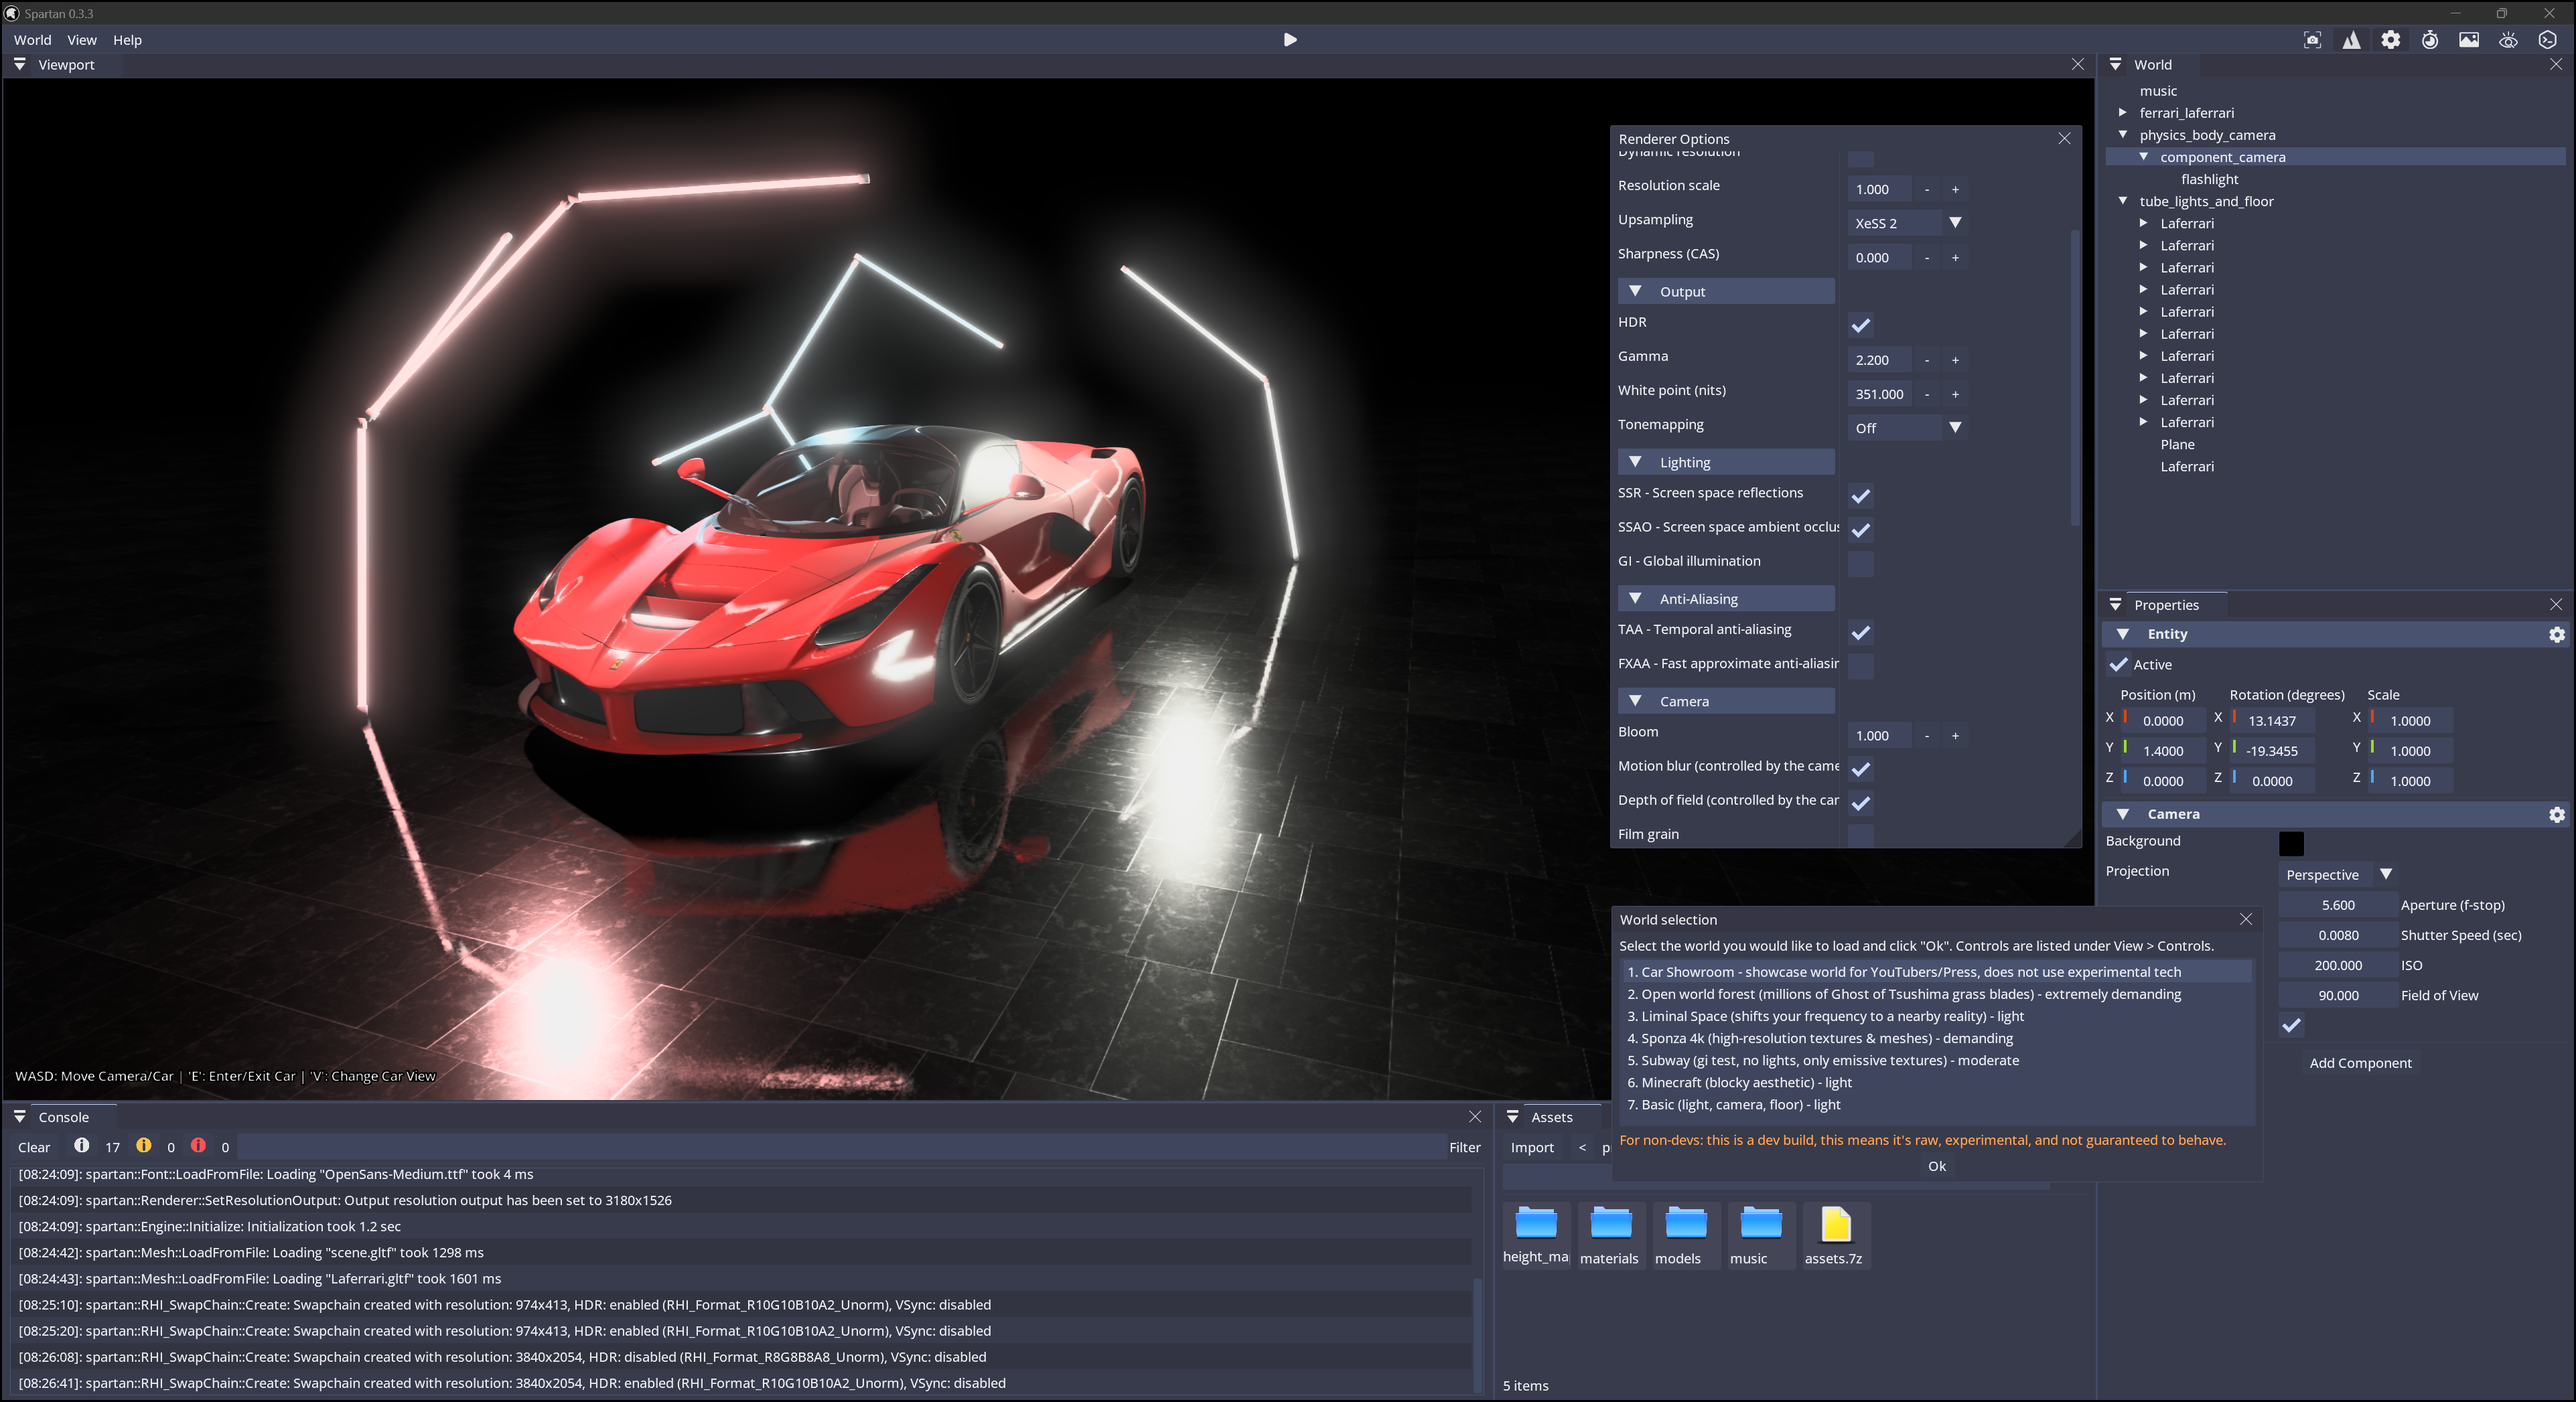
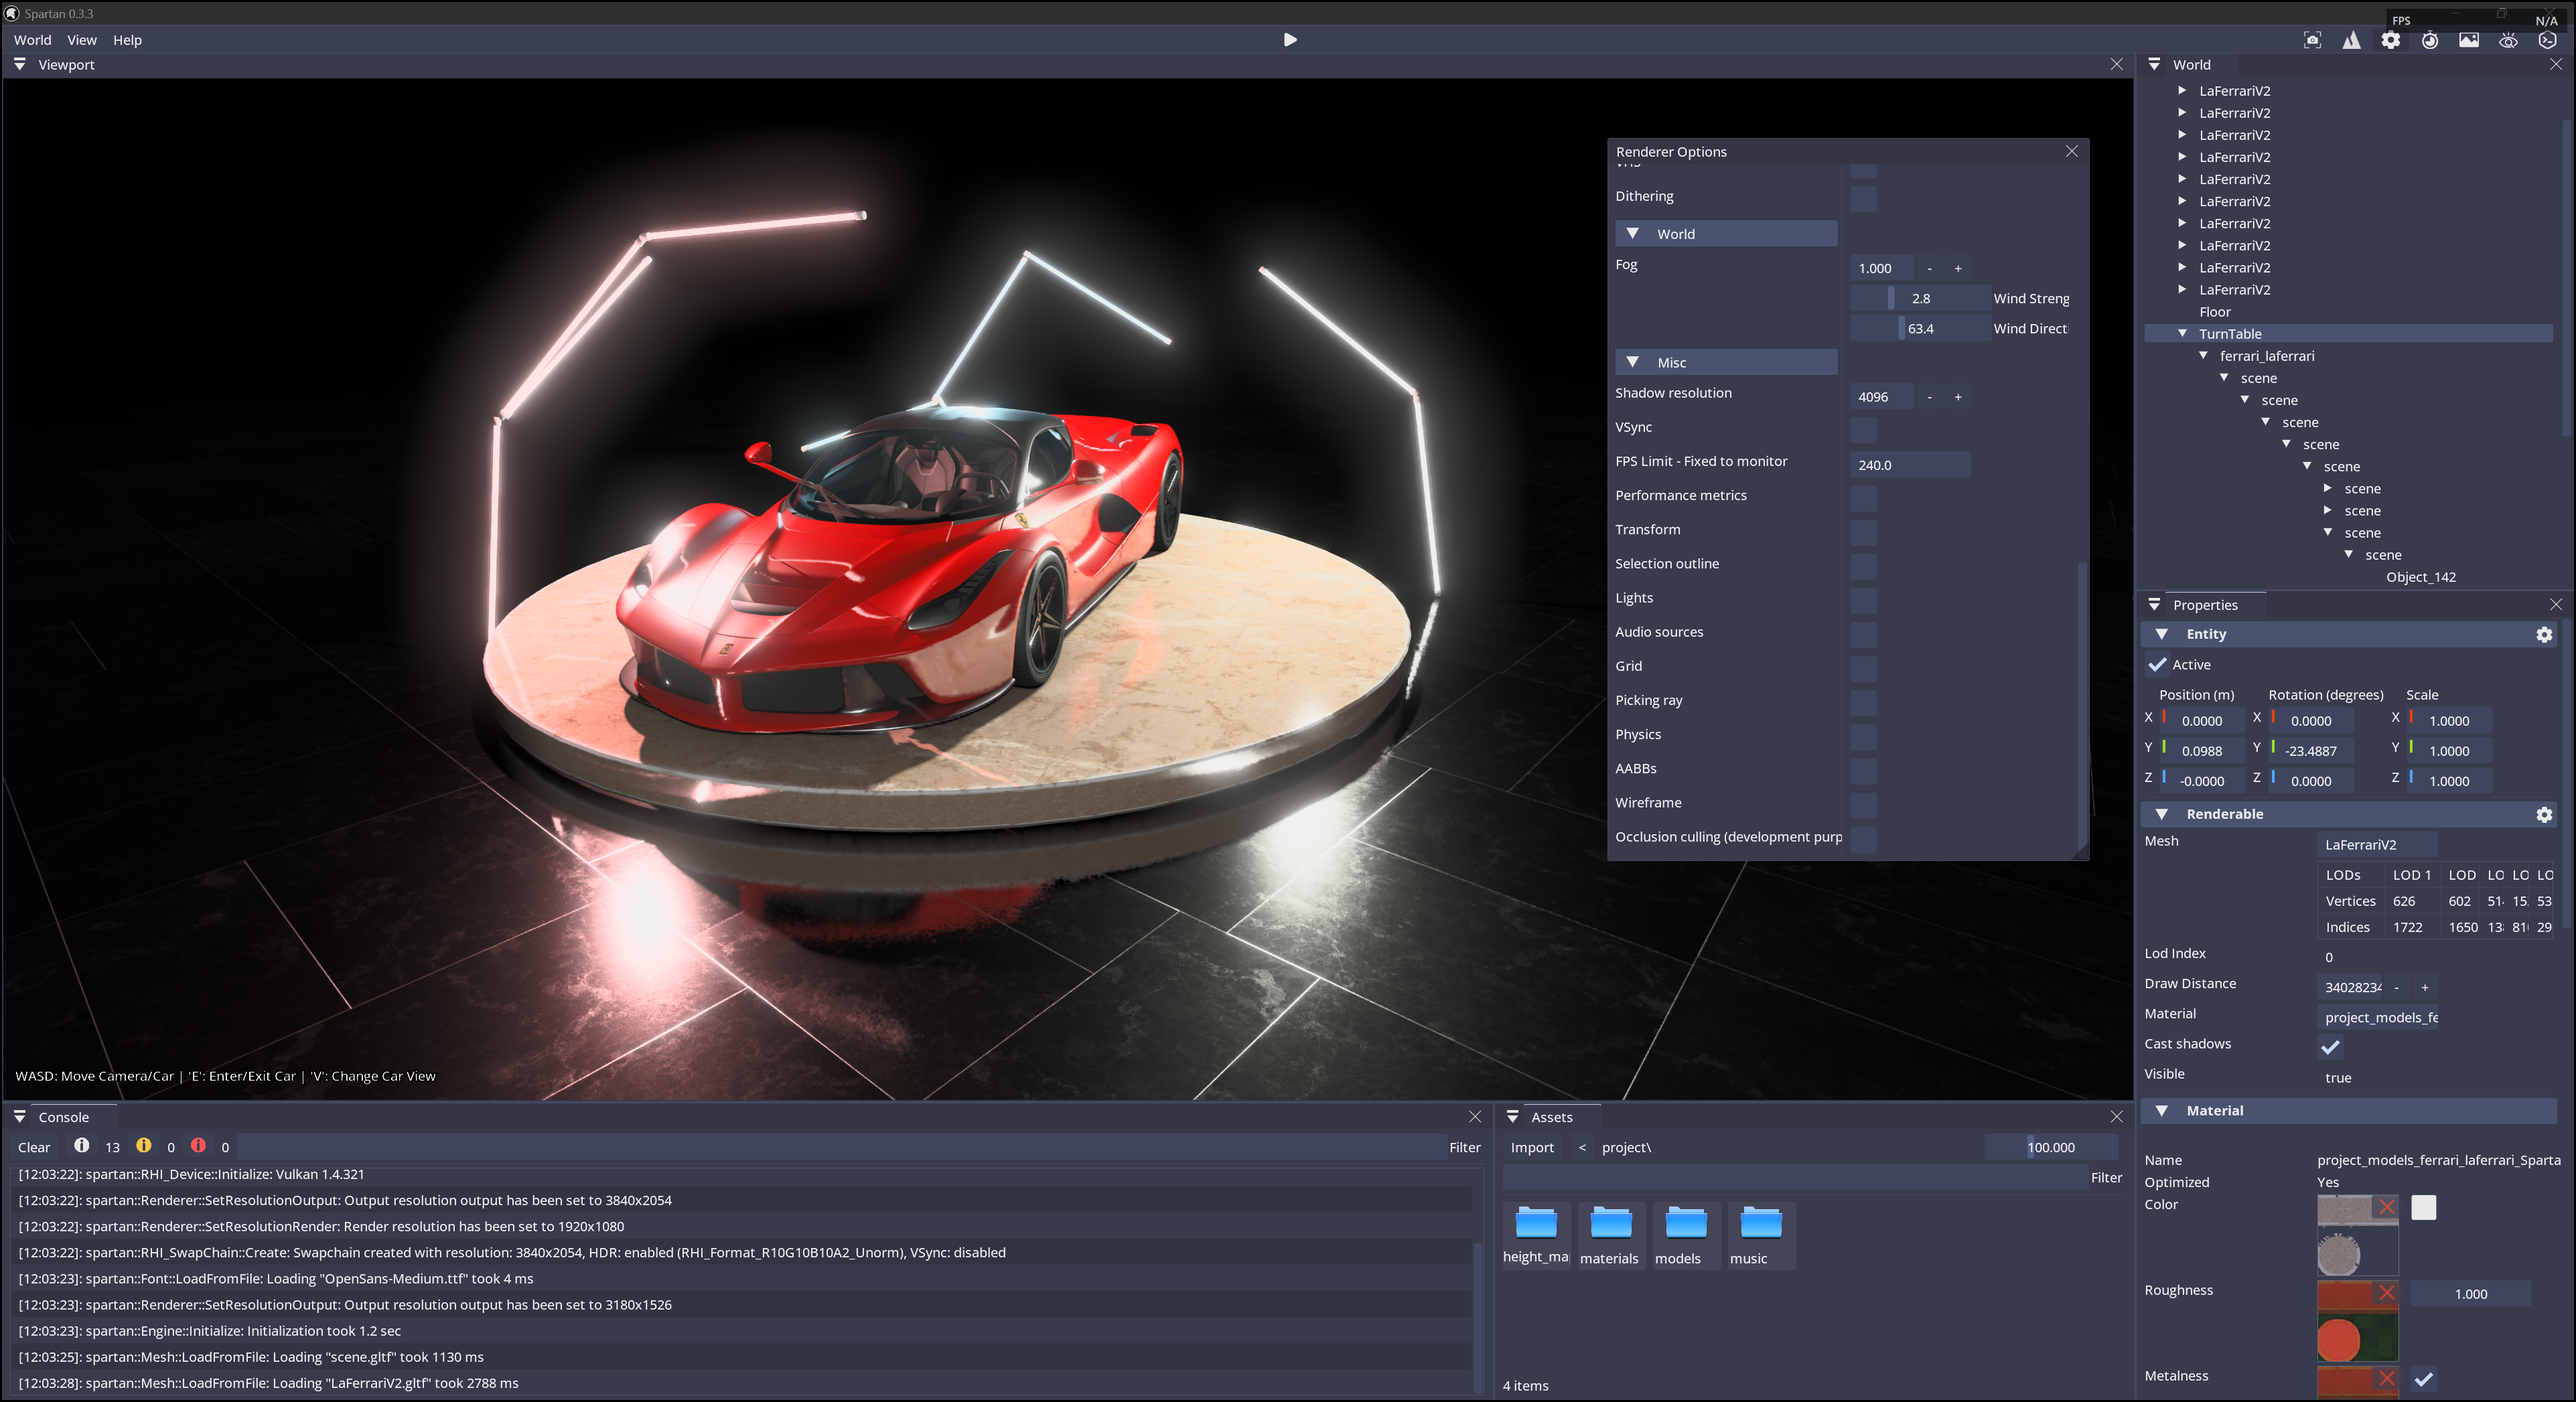
[world] updated car showroom world with Sandro's latest work (adds a turn table)

diff --git a/runtime/Game/Game.cpp b/runtime/Game/Game.cpp
@@ -58,7 +58,7 @@ namespace spartan
         shared_ptr<Entity> default_environment       = nullptr;
         shared_ptr<Entity> default_light_directional = nullptr;
         shared_ptr<Entity> default_metal_cube        = nullptr;
-        shared_ptr<Entity> default_water             = nullptr; 
+        shared_ptr<Entity> default_water             = nullptr;
         vector<shared_ptr<Mesh>> meshes;
 
         namespace entities
@@ -1088,6 +1088,7 @@ namespace spartan
         {
             shared_ptr<RHI_Texture> texture_brand_logo;
             shared_ptr<RHI_Texture> texture_paint_normal;
+            Entity* turn_table = nullptr;
 
             void create()
             {
@@ -1118,7 +1119,7 @@ namespace spartan
                     mesh_flags          &= static_cast<uint32_t>(MeshFlags::ImportCombineMeshes);
                     mesh_flags          &= ~static_cast<uint32_t>(MeshFlags::PostProcessOptimize);     // don't reduce vertex/index count
                     mesh_flags          &= ~static_cast<uint32_t>(MeshFlags::PostProcessGenerateLods); // don't genereate and use LODs
-                    if (shared_ptr<Mesh> mesh = ResourceCache::Load<Mesh>("project\\models\\ferrari_laferrari\\tube_lights_and_floor\\Laferrari.gltf", mesh_flags))
+                    if (shared_ptr<Mesh> mesh = ResourceCache::Load<Mesh>("project\\models\\ferrari_laferrari\\SpartanLaFerrariV2\\LaFerrariV2.gltf", mesh_flags))
                     {
                         Entity* floor_tube_lights = mesh->GetRootEntity().lock().get();
                         floor_tube_lights->SetObjectName("tube_lights_and_floor");
@@ -1169,7 +1170,7 @@ namespace spartan
                        }
 
                        // configure the floor
-                       if (Entity* entity_floor = floor_tube_lights->GetDescendantByName("Plane"))
+                       if (Entity* entity_floor = floor_tube_lights->GetDescendantByName("Floor"))
                        {
                            // scale the floor to be larger
                            const float scale = 100.0f;
@@ -1182,6 +1183,13 @@ namespace spartan
                        
                            // add physics to the floor so we can walk on it
                            entity_floor->GetComponent<Physics>()->SetBodyType(BodyType::Plane);
+                       }
+
+                       // make the car, a child of the turn table so that it rotates with it
+                       if (turn_table = floor_tube_lights->GetDescendantByName("TurnTable"))
+                       {
+                           default_car->SetParent(turn_table);
+                           default_car->SetScaleLocal(1.0f);
                        }
                     }
                 }
@@ -1198,11 +1206,11 @@ namespace spartan
             void tick()
             {
                  // slow rotation: rotate car around y-axis (vertical)
-                float rotation_speed = 0.25f; // degrees per second
+                float rotation_speed = 0.15f; // radians per second
                 float delta_time     = static_cast<float>(Timer::GetDeltaTimeSec()); // time since last frame (in seconds)
                 float angle          = rotation_speed * delta_time; // incremental rotation
                 Quaternion rotation  = Quaternion::FromAxisAngle(Vector3::Up, angle);
-                default_car->Rotate(rotation);
+                turn_table->Rotate(rotation);
         
                 // helper function to format float with 1 decimal place
                 auto format_float = [](float value) -> string

diff --git a/build_scripts/download_assets.py b/build_scripts/download_assets.py
@@ -19,9 +19,9 @@
 
 import file_utilities
 
-file_url           = 'https://www.dropbox.com/scl/fi/6aiyk1ri7mavrzklbvlbl/assets.7z?rlkey=1ldv16t6cxkkshov3saflgwho&st=9q3y6971&dl=1'
+file_url           = 'https://www.dropbox.com/scl/fi/zf7m9b7s8aclp84g0wxbo/assets.7z?rlkey=dpfnbyrifsg7axkkohi4k13vf&st=ttgbdrnz&dl=1'
 file_destination   = 'project/assets.7z'
[2 lines of base64/hex data omitted]
 
 def main():
     file_utilities.download_file(file_url, file_destination, file_expected_hash)
